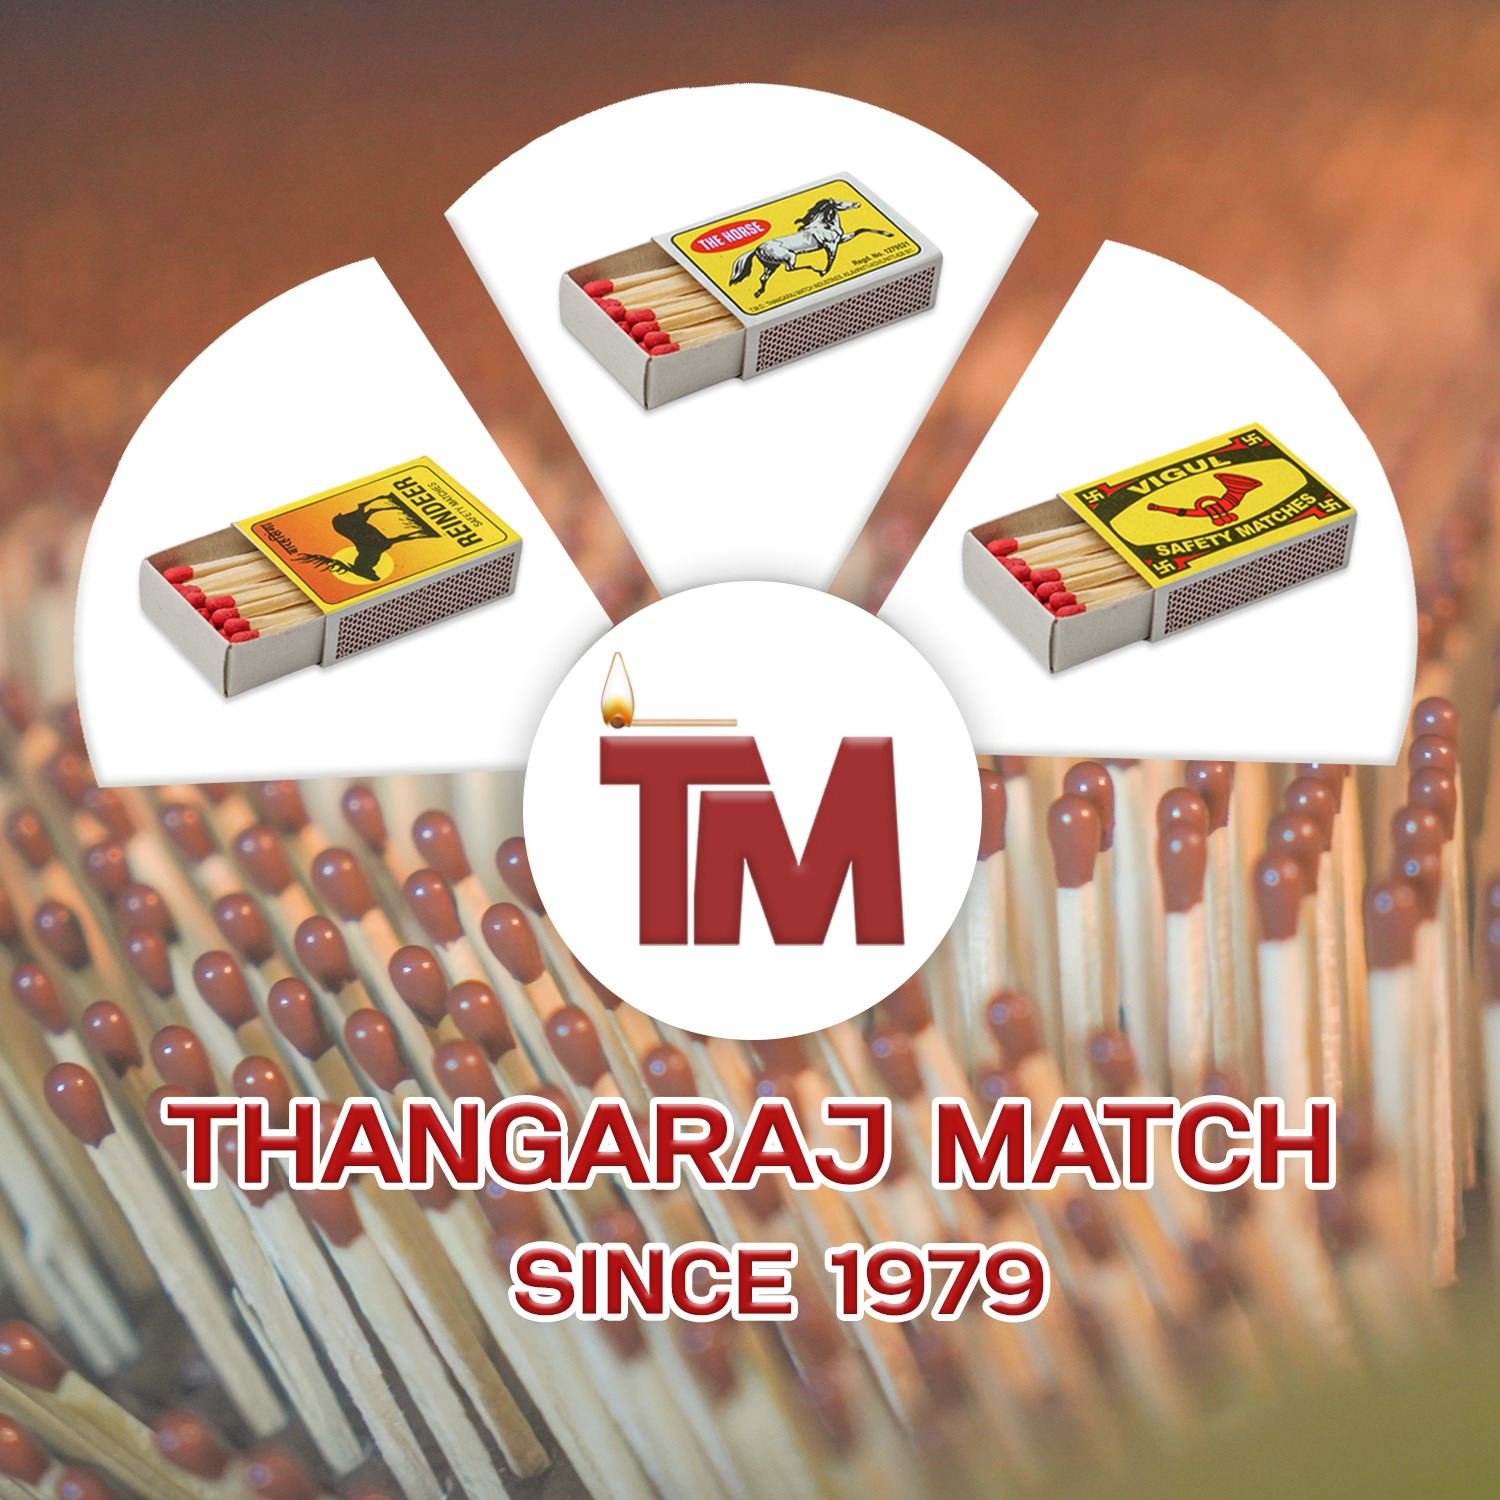
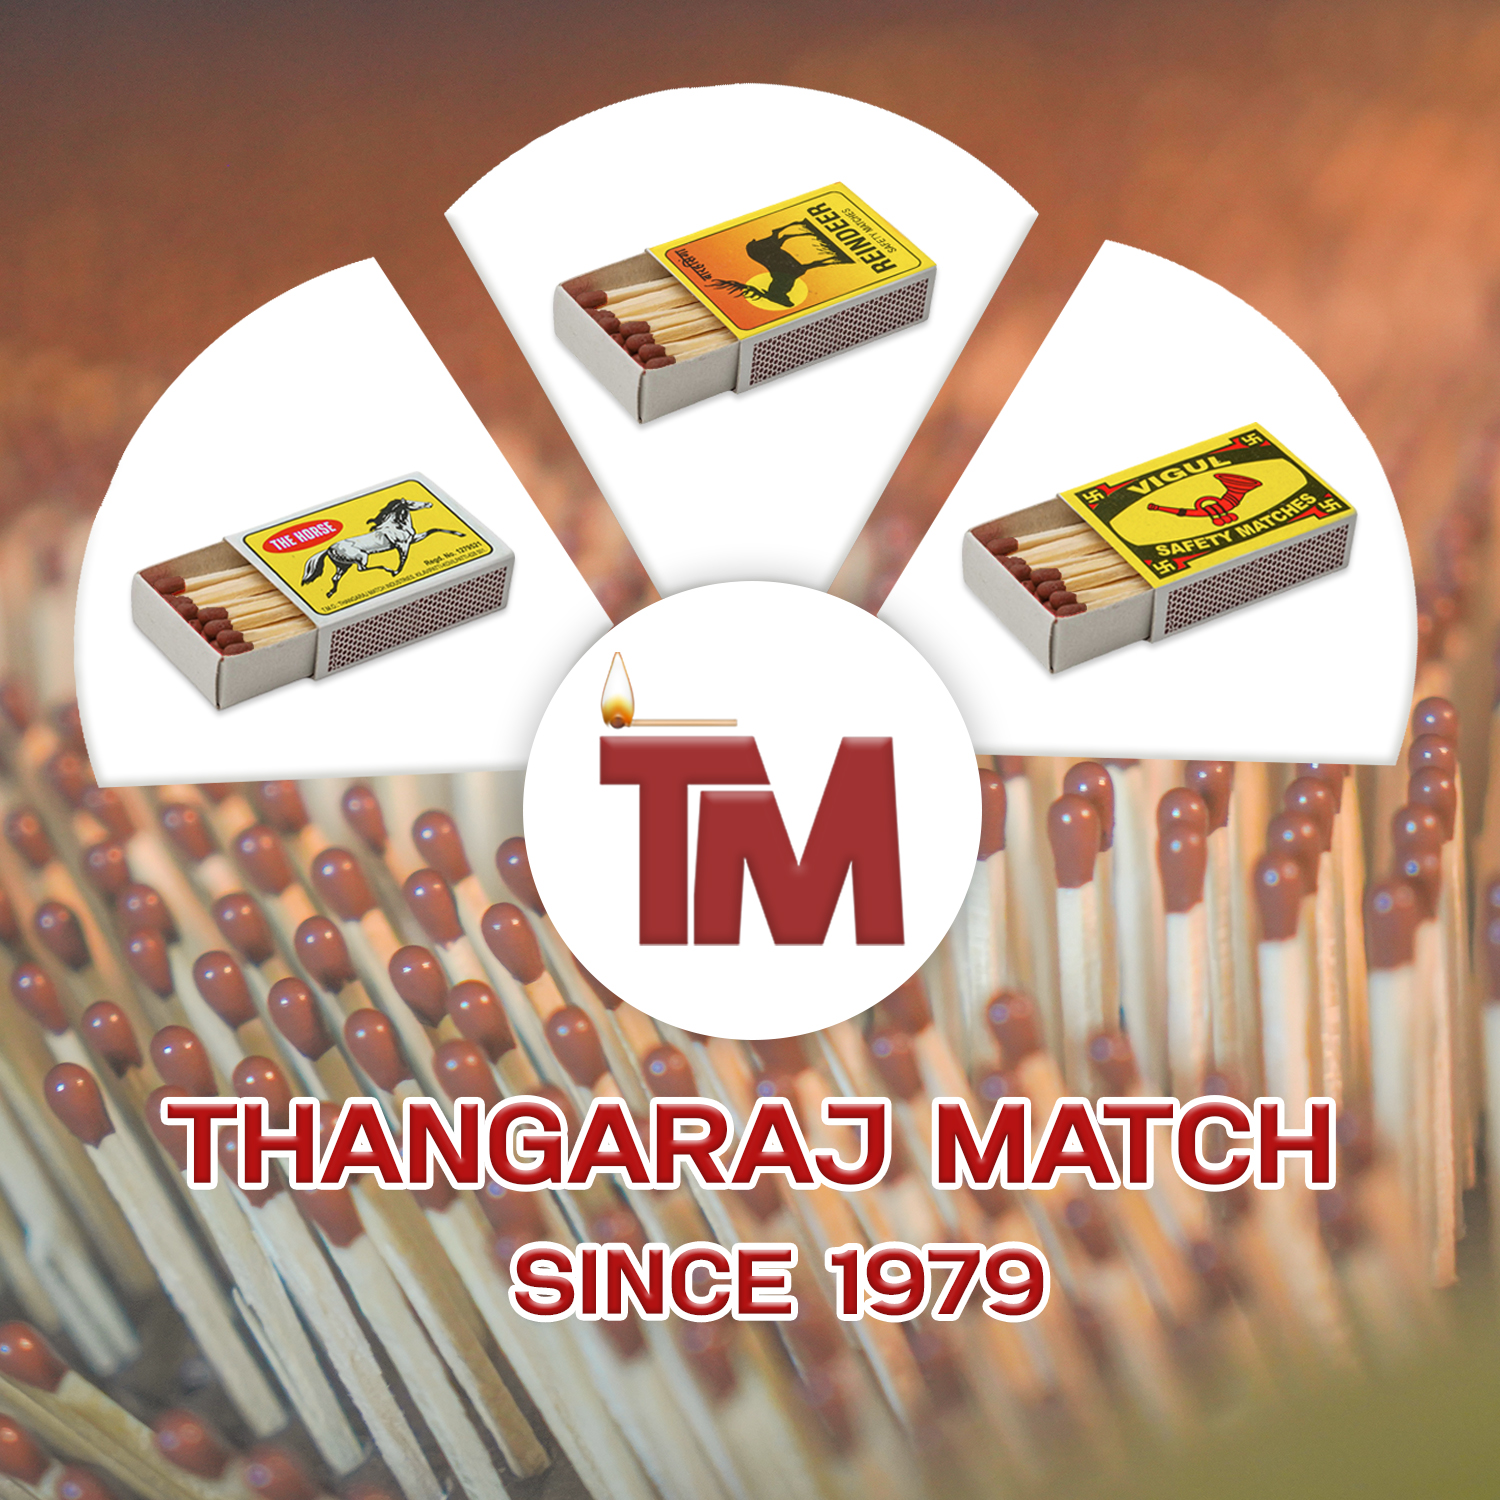
add

Changed region(s): [[0.368, 0.092, 0.644, 0.3067], [0.092, 0.3067, 0.368, 0.4907], [0.644, 0.3373, 0.736, 0.4293]]

diff --git a/src/PAges/Finalcontact/FinalContact.jsx b/src/PAges/Finalcontact/FinalContact.jsx
@@ -5,13 +5,13 @@ import Footer from "../../Components/Footer/Footer";
 import Props from "../../Components/prop/Props";
 import "./Finalcontact.css";
 import logo from "../../Assets/kl.png";
-import ph3 from "../../Assets/7.jpg"
+import ph3 from "../../Assets/7.jpg";
 
 const FinalContact = () => {
   return (
     <>
       <Navbar />
-      <Props img={ph3}/>
+      <Props img={ph3} />
 
       <div className="message">
         <div className="message1">
@@ -51,13 +51,10 @@ const FinalContact = () => {
         </div>
       </div>
       <div className="map">
-        <iframe
-          src="https://www.google.com/maps/embed?pb=!1m18!1m12!1m3!1d3935.3670090936885!2d77.80328547477951!3d9.476771381819706!2m3!1f0!2f0!3f0!3m2!1i1024!2i768!4f13.1!3m3!1m2!1s0x3b06ce44e64eb1c7%3A0xa3d3f507cf20d8ef!2sThangavel%20Match%20Industries!5e0!3m2!1sen!2sin!4v1750268593174!5m2!1sen!2sin"
-         
-          allowfullscreen=""
+        <iframe src="https://www.google.com/maps/embed?pb=!1m18!1m12!1m3!1d3939.125191994988!2d77.90174467449994!3d9.143164287192496!2m3!1f0!2f0!3f0!3m2!1i1024!2i768!4f13.1!3m3!1m2!1s0x3b06adb6a3c50363%3A0xd1c3fcb94c63481!2sTHANGARAJ%20MATCH%20FACTORY!5e0!3m2!1sen!2sin!4v1755438065367!5m2!1sen!2sin"   allowfullscreen=""
           loading="lazy"
-          referrerpolicy="no-referrer-when-downgrade"
-        ></iframe>
+          referrerpolicy="no-referrer-when-downgrade"></iframe>
+       
       </div>
       <Contacts />
       <Footer />

diff --git a/src/Components/MyPro/Mypro.jsx b/src/Components/MyPro/Mypro.jsx
@@ -6,9 +6,9 @@ import 'swiper/css';
 
 import './Mypro.css';
 
-import img1 from '../../Assets/mockup.jpg';
-import img2 from '../../Assets/mockup2.jpg';
-import img3 from '../../Assets/mockup3.jpg';
+import img1 from '../../Assets/mockup 2.jpg';
+import img2 from '../../Assets/mockup 1.jpg';
+import img3 from '../../Assets/mockup 3.jpg';
 import img4 from '../../Assets/g20.jpg';
 import img5 from '../../Assets/g15.jpg';
 import img6 from '../../Assets/g16.jpg';

diff --git a/src/PAges/Product.jsx b/src/PAges/Product.jsx
@@ -5,8 +5,8 @@ import Props from '../Components/prop/Props'
 import Choose from '../Components/Choose/Choose'
 import Contacts from '../Components/Contacts/Contacts'
 import Brand from '../Components/Product/Brand'
-import table from "../Assets/table.png"
-import ww from "../Assets/ww.png"
+import table from "../Assets/ty.jpg"
+import ww from "../Assets/op1.jpg"
 import l1 from "../Assets/3.jpg"
 const Product = () => {
   return (

diff --git a/src/Components/Product/Brand.jsx b/src/Components/Product/Brand.jsx
@@ -1,8 +1,8 @@
 import React from 'react'
 import "./Brand.css"
-import lo from "../../Assets/mockup.jpg"
-import lo1 from "../../Assets/mockup2.jpg"
-import lo2 from "../../Assets/mockup3.jpg"
+import lo from "../../Assets/mockup 2.jpg"
+import lo1 from "../../Assets/mockup 1.jpg"
+import lo2 from "../../Assets/mockup 3.jpg"
 const Brand = () => {
   return (
     <div className='brand'>

diff --git a/src/index.css b/src/index.css
@@ -45,7 +45,7 @@ a{
 .pack1{
   width: 80%;
   display: flex;
-  align-items:center;
+  align-items:flex-start;
   justify-content: space-between;
   gap: 50px;
 }
@@ -300,6 +300,11 @@ justify-content: flex-end;
   width: 60px;
   height:60px;
   cursor: pointer;
+}
+.pack1 img{
+   width:500px;
+  height:500px;
+  object-fit:cover;
 }
 @media screen and (max-width:768px){
   .table{

diff --git a/src/Components/Gridbox/Gridbox.jsx b/src/Components/Gridbox/Gridbox.jsx
@@ -9,7 +9,7 @@ import "swiper/css/pagination";
 import "./Gridbox.css";
 
 import logo from "../../Assets/DSC04004.JPG";
-import logo1 from "../../Assets/DSC04009.JPG";
+import logo1 from "../../Assets/uu1.jpg";
 import logo2 from "../../Assets/g11.jpg";
 import logo3 from "../../Assets/g12.jpg";
 import logo4 from "../../Assets/DSC04027.JPG";
